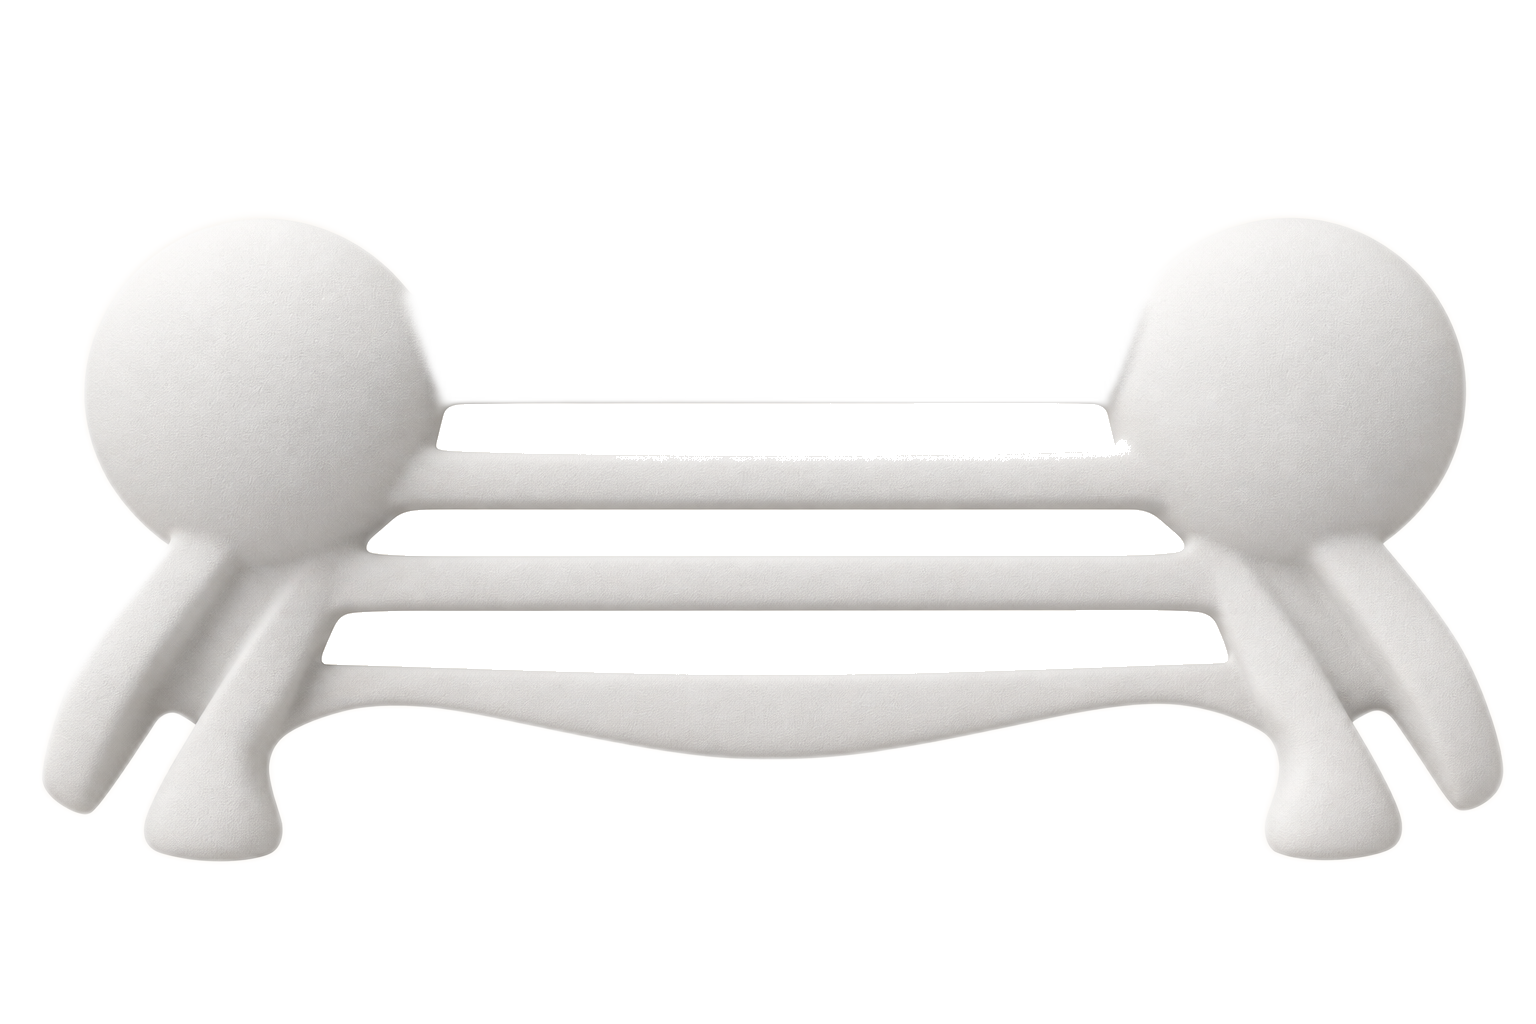
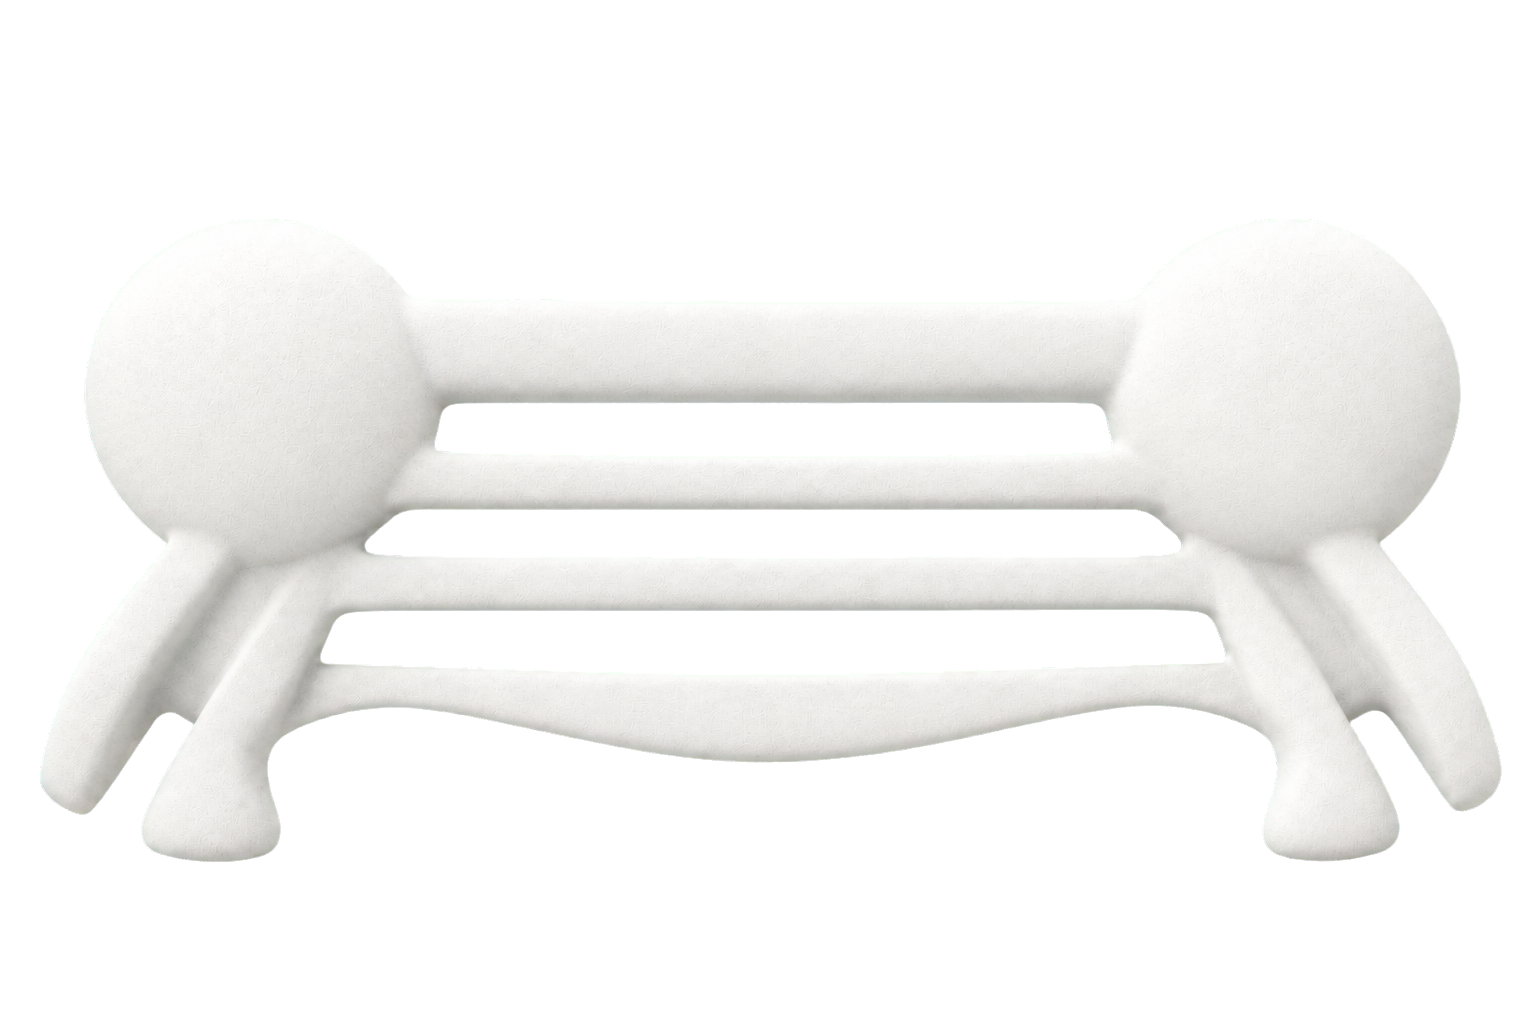
Fix So iLL Iron Palm presentation masking

diff --git a/Tools/HangboardPackages/tests/test_remove_primary_backdrops.py b/Tools/HangboardPackages/tests/test_remove_primary_backdrops.py
@@ -23,14 +23,16 @@ CONTACT_BOUNDARY_FIXTURE = (
 HANGBOARDS_ROOT = Path(__file__).resolve().parents[3] / "Hangboards"
 
 
+def test_iron_palm_is_not_subject_to_seed_based_enclosed_background_clearing() -> None:
+    module = _load_script()
+    assert "soill-iron-palm-2" not in module._ENCLOSED_BACKGROUND_SEEDS
+
+
 @pytest.mark.parametrize(
     ("package", "hole", "preserved"),
     [
         ("beastmaker-1000", (215, 10), (500, 20)),
         ("beastmaker-1000", (785, 10), (500, 20)),
-        ("soill-iron-palm-2", (768, 425), (768, 475)),
-        ("soill-iron-palm-2", (768, 530), (768, 580)),
-        ("soill-iron-palm-2", (768, 635), (768, 690)),
         ("soill-training-tiles", (500, 450), (500, 350)),
         ("tension-grindstone", (887, 443), (887, 360)),
         ("trango-rock-prodigy-pivot", (590, 310), (590, 400)),

diff --git a/Tools/HangboardPackages/scripts/remove_primary_backdrops.py b/Tools/HangboardPackages/scripts/remove_primary_backdrops.py
@@ -22,7 +22,6 @@ _SESSION_ARTIFACT = ":memory:.ses"
 _MAX_ENCLOSED_BACKGROUND_PIXELS = 100_000
 _ENCLOSED_BACKGROUND_SEEDS = {
     "beastmaker-1000": ((215, 10), (785, 10)),
-    "soill-iron-palm-2": ((768, 425), (768, 530), (768, 635)),
     "soill-training-tiles": ((500, 450),),
     "tension-grindstone": ((887, 443),),
     "trango-rock-prodigy-pivot": (

diff --git a/docs/source-audits/2026-08-12-soill-tension-board-packages.md b/docs/source-audits/2026-08-12-soill-tension-board-packages.md
@@ -281,3 +281,25 @@ already present before this batch. In particular:
   array. Non-pocket finger capacity is recorded as not applicable; every other
   unsupported optional field remains absent with a source-specific ledger
   reason.
+
+## 2026-08-26 Iron Palm 2.0 presentation-asset correction
+
+- `product`: [Iron Palm 2.0](https://soillholds.com/products/iron-palm-2-0)
+  (the accepted So iLL product source already recorded above).
+- Defect: seed-based enclosed-background clearing treated pale Iron Palm board
+  material as background and made it transparent. The package is removed from
+  `_ENCLOSED_BACKGROUND_SEEDS`; its presentation is not eligible for that
+  migration behavior.
+- Replacement-art prompt: “Create a clean, front-on, faithful simplified
+  illustration of the same So iLL Iron Palm 2.0. Preserve the wide horizontal
+  presentation, bilateral large round top slopers, bilateral lower 3-inch
+  pinches and thumb catches, and three centered horizontal rails in the same
+  positions and proportions. Keep every board surface opaque on a perfectly
+  flat solid `#00ff00` chroma-key background, with no shadows, text, or
+  watermark.” The generated chroma-key image was converted using the supported
+  chroma-key workflow; no repository backdrop-removal migration was used.
+- The final 1536 × 1024 RGBA presentation was reviewed on a dark canvas. A
+  bounded isolated-simulator attempt installed and launched the app but
+  remained at the iOS splash screen, so the required in-app normal,
+  active-rail, active-sloper, and hit-test confirmation remains pending; no
+  alignment claim is made from that attempt.
